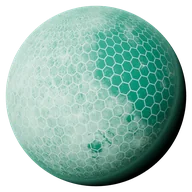
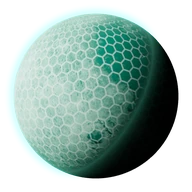
Every planet at the group site's quality
- the logo's three bodies are the companies' own worlds (Facilities, Global, Distribution), built as the system builds them
- the pink globe takes thefreedomgroup.global's colours, cloud and air
- a world's air keeps its depth when the world is drawn bigger or smaller
- the hex cells on Facilities fade out cleanly when small instead of fizzing
- the planet icons are re-rendered from the 3D worlds, lit from the side with their air
- the expansion globe's land takes real relief from the planets' height map

diff --git a/js/w-globe.js b/js/w-globe.js
@@ -4,10 +4,12 @@
    distance from Bury as the globe turns east to face them. At the end the glass clears, the rim is left as a ring, and
    the ring opens out and is gone, leaving the night sky the growth plan stands in.
    Everything here is a function of how far through the scene the scroll is, so it runs the same forwards and backwards.
-   It never uses the Earth's photograph, clouds or city lights: only the water map, as a clean cut-out.
+   It never uses the Earth's clouds or city lights: the water map cuts land from sea, and the land takes its relief and tone
+   from the height and day maps the planets use.
    Drawn over the night sky (w-orbit) once the sheet has gone; on its own while the sheet is up. */
 import * as THREE from 'three';
 import { mapTex } from './planets.js';
+import { GLSL_PERTURB } from './util.js';
 
 const DEG = Math.PI / 180;
 const clamp = (v, a = 0, b = 1) => Math.min(b, Math.max(a, v));
@@ -62,10 +64,10 @@ const PORCELAIN = [244 / 255, 241 / 255, 235 / 255], NIGHT = [5 / 255, 5 / 255, 
 const SHEET_VS = `void main(){ gl_Position = vec4(position.xy, 0.0, 1.0); }`;
 const SHEET_FS = `uniform vec3 col; uniform float a; void main(){ gl_FragColor = vec4(col * a, a); }`;
 
-const GLOBE_VS = `varying vec2 vUv; varying vec3 vN; varying vec3 vNv; varying vec3 vW;
-void main(){ vUv = uv; vec4 w = modelMatrix * vec4(position, 1.0); vW = w.xyz; vN = normalize(mat3(modelMatrix) * normal); vNv = normalize(normalMatrix * normal); gl_Position = projectionMatrix * viewMatrix * w; }`;
-const GLOBE_FS = `varying vec2 vUv; varying vec3 vN; varying vec3 vNv; varying vec3 vW;
-uniform sampler2D water; uniform float dusk; uniform float body;` + UNGRADE + `
+const GLOBE_VS = `varying vec2 vUv; varying vec3 vN; varying vec3 vNv; varying vec3 vW; varying vec3 vVp;
+void main(){ vUv = uv; vec4 w = modelMatrix * vec4(position, 1.0); vW = w.xyz; vN = normalize(mat3(modelMatrix) * normal); vNv = normalize(normalMatrix * normal); vec4 v = viewMatrix * w; vVp = v.xyz; gl_Position = projectionMatrix * v; }`;
+const GLOBE_FS = `varying vec2 vUv; varying vec3 vN; varying vec3 vNv; varying vec3 vW; varying vec3 vVp;
+uniform sampler2D water; uniform sampler2D dayMap; uniform sampler2D normalMap; uniform float dusk; uniform float body;` + UNGRADE + GLSL_PERTURB + `
 void main(){
   vec3 N = normalize(vN); vec3 Nv = normalize(vNv); vec3 V = normalize(cameraPosition - vW);
   float edge = 1.0 - clamp(dot(N, V), 0.0, 1.0);                       // 0 in the middle of the disc, 1 on the limb
@@ -78,7 +80,10 @@ void main(){
   vec3 sea = mix(vec3(0.647, 0.047, 0.353), vec3(1.0, 0.176, 0.553), lit);          // #A50C5A in the shade to the brand's #FF2D8D in the light
   sea = mix(sea, vec3(1.0, 0.31, 0.635), pow(lit, 6.0) * 0.35);                      // a little lighter where the light lands
   sea = mix(sea, vec3(0.5, 0.02, 0.26), shade * 0.42);
-  vec3 ground = mix(vec3(0.9, 0.77, 0.845), vec3(1.0, 0.988, 0.972), lit);
+  /* the land has its real relief: the planets' height map turned into light and shade, and the ground's own tone */
+  vec3 Lg = normalize(vec3(-0.42, 0.46, 0.78)); vec3 Np = perturbN(Nv, texture2D(normalMap, vUv).xyz * 2.0 - 1.0, vVp, vUv, 1.1);
+  float relief = clamp(dot(Np, Lg) - dot(Nv, Lg), -0.45, 0.45), tone = dot(texture2D(dayMap, vUv).rgb, vec3(0.299, 0.587, 0.114));
+  vec3 ground = mix(vec3(0.9, 0.77, 0.845), vec3(1.0, 0.988, 0.972), lit) * (0.9 + 0.2 * tone) * (1.0 + relief * 0.95);
   vec3 day = mix(sea, ground, land) * (1.0 - 0.3 * pow(edge, 2.4));                  // deeper toward the limb
   day += vec3(1.0, 0.82, 0.9) * pow(edge, 6.0) * 0.1;                                // a thin haze of air inside the limb
   // the soft window of light, upper left, that the logo's globe carries
@@ -137,7 +142,7 @@ export function createGlobe({ renderer, small, grade }) {
 
   /* the globe: tipped, then turned about its own axis */
   const tip = new THREE.Group(), spin = new THREE.Group(); tip.rotation.x = TILT; tip.add(spin); scene.add(tip);
-  const globeU = { water: { value: mapTex('earth-spec', { colour: false }) }, dusk: { value: 0 }, body: { value: 1 } };
+  const globeU = { water: { value: mapTex('earth-spec', { colour: false }) }, dayMap: { value: mapTex('earth-day') }, normalMap: { value: mapTex('earth-normal', { colour: false }) }, dusk: { value: 0 }, body: { value: 1 } };
   const ball = new THREE.Mesh(new THREE.SphereGeometry(1, small ? 96 : 144, small ? 48 : 72), new THREE.ShaderMaterial({ uniforms: globeU, vertexShader: GLOBE_VS, fragmentShader: GLOBE_FS, transparent: true }));
   spin.add(ball);
 

diff --git a/js/w-orbit.js b/js/w-orbit.js
@@ -27,7 +27,7 @@ const DIVE_LEAD = 0.675, DIVE_SPAN = 1.404;
    stroke thickens, the green body at 355.8 degrees, the blue at 155.2, the ember at 284.3 (radii 0.0519, 0.0414, 0.0247).
    The orbit lies flat in the plane of the first screen, so head on it is the logo's ellipse exactly. */
 const MK = { cx: 0.4652, cy: 0.5042, a: 0.5456, b: 0.2496, lean: 54.42 * DEG, gx: 0.7573, gy: 0.5073 }, KY = MK.b / MK.a;
-const BODIES = [{ at: 355.8, r: 0.0519, c: 0x16c98d, e: 0x063d2a }, { at: 155.2, r: 0.0414, c: 0x1c9bff, e: 0x06305c }, { at: 284.3, r: 0.0247, c: 0xff4a1e, e: 0x5a1205 }];
+const BODIES = [{ at: 355.8, r: 0.0519, world: 'facilities' }, { at: 155.2, r: 0.0414, world: 'global' }, { at: 284.3, r: 0.0247, world: 'distribution' }];
 /* the stroke round the orbit, read off the artwork: [degrees, width in wordmark widths, how solid, colour]. It runs thick
    and deep from the green body past the globe to the blue, thin and pale from there, and breaks where it would cross the letters. */
 const STROKE = [[0, 0.026, 1, '#ff3ecc'], [12, 0.0262, 1, '#fe3ecc'], [30, 0.029, 1, '#f52eb7'], [42, 0.0306, 1, '#e5199b'], [54, 0.0328, 1, '#d2047d'], [66, 0.0336, 1, '#cc0074'], [84, 0.0336, 1, '#cc0074'], [96, 0.0322, 1, '#d30680'],
@@ -80,7 +80,9 @@ export function createOrbit({ renderer, small, dpr, spec }) {
   const well = new THREE.Mesh(new THREE.CircleGeometry(1, 96), wellMat); well.scale.set(1, KY, 1); well.renderOrder = 1; rig.add(well); ring.renderOrder = 2;
   /* and round Enterprise once it is a planet: a soft pink glow, behind it */
   const glow = new THREE.Sprite(new THREE.SpriteMaterial({ map: softDisc(128, [[0, 'rgba(255,61,154,.6)'], [0.42, 'rgba(255,61,154,.2)'], [1, 'rgba(255,61,154,0)']]), blending: THREE.AdditiveBlending, depthWrite: false, transparent: true, opacity: 0 })); glow.visible = false; scene.add(glow);
-  const bodies = BODIES.map(b => { const m = new THREE.Mesh(new THREE.SphereGeometry(b.r / MK.a, 48, 32), new THREE.MeshStandardMaterial({ color: b.c, roughness: 0.3, metalness: 0.05, emissive: b.e, emissiveIntensity: 1.2 })); m.userData = b; rig.add(m); return m; });
+  /* the logo's three bodies are the three companies' own worlds, built as the system builds them (green Facilities, blue
+     Global, the small ember one Distribution), each drawn at the logo's size for it */
+  const bodies = BODIES.map(b => { const w = makeWorld(WORLDS[b.world], sunPos, { seg: small ? 48 : 96 }); w.group.userData = Object.assign({ k: b.r / MK.a / w.R }, b); rig.add(w.group); w.group.w = w; return w.group; });
 
   /* ───────── poses ───────── */
   const cur = { target: V(), dir: V(0, 0.42, 1).normalize(), dist: 700, ox: 0, oy: 0 }, want = { target: V(), dir: V(), dist: 700, ox: 0, oy: 0 };
@@ -174,7 +176,7 @@ export function createOrbit({ renderer, small, dpr, spec }) {
       ringMat.uniforms.k.value = rigK; ringMat.uniforms.charge.value = Math.min(1.6, bh * bh + rc * 0.7); wellMat.uniforms.k.value = Math.min(1, bh * 1.5) * rigK; well.visible = bh > 0.004; ring.geometry.setDrawRange(0, Math.floor(RING_N * clamp(intro) / 3) * 3);
       /* the three bodies leave the ring one after another and wind in to the middle, faster as they go */
       bodies.forEach((b, i) => { const u = b.userData, pb = clamp((bh - 0.06 - i * 0.07) / 0.62), f2 = pb * pb, th = (u.at + Math.sin(time * (0.21 + i * 0.07) + i * 2.1) * 1.3 - bh * (60 + i * 30) - f2 * 220) * DEG, rr = 1 - f2;
-        b.position.set(Math.cos(th) * rr, -Math.sin(th) * KY * rr, 0); const kk = clamp(introBodies * 3 - i) * rigK * (1 - f2); b.scale.setScalar(Math.max(0.0001, ease(kk)) / Math.max(0.05, ringS)); b.rotation.y += dt * 0.4; });
+        b.position.set(Math.cos(th) * rr, -Math.sin(th) * KY * rr, 0); const kk = clamp(introBodies * 3 - i) * rigK * (1 - f2); b.scale.setScalar(u.k * Math.max(0.0001, ease(kk)) / Math.max(0.05, ringS)); b.visible = kk > 0.002; b.w.update(dt, time); });
       rig.updateMatrixWorld();
     }
     /* the warp is the ring: inside it the light is dragged round and down into a dark mouth; the ring itself and the sky

diff --git a/js/planets.js b/js/planets.js
@@ -49,9 +49,9 @@ void main(){
   float water = texture2D(specMap, vUv).r;
   if (pink > 0.5) {
     float lum = dot(albedo, vec3(0.299, 0.587, 0.114));
-    /* the logo's globe: a hot magenta sea (the artwork's is #E722A2) under white land */
-    vec3 sea = mix(vec3(0.52, 0.004, 0.215), vec3(0.37, 0.0, 0.14), smoothstep(0.0, 0.35, lum) * 0.7);
-    vec3 land = vec3(1.0, 0.985, 0.97) * (0.86 + 0.3 * lum);
+    /* the group's globe as thefreedomgroup.global paints it: a pink sea under pale land */
+    vec3 sea = mix(vec3(0.98, 0.22, 0.58), vec3(0.62, 0.04, 0.34), smoothstep(0.0, 0.35, lum) * 0.8);
+    vec3 land = vec3(0.97, 0.95, 0.92) * (0.72 + 0.4 * lum);
     albedo = mix(land, sea, smoothstep(0.3, 0.7, water)); city *= vec3(1.0, 0.75, 0.9) * 0.6;
   }
   float cl = texture2D(cloudMap, vec2(vUv.x + cloudOffset - 0.0015, vUv.y + 0.001)).r;
@@ -60,10 +60,10 @@ void main(){
   float diffuse = max(mix(nlg, nl, 1.0 - water * 0.8), 0.0);
   vec3 col = albedo * (vec3(0.010, 0.016, 0.030) + diffuse * 1.5) * shadow;
   vec3 H = normalize(L + V); float glint = pow(max(dot(Ng, H), 0.0), 110.0) * water * max(nlg, 0.0) * 0.8;
-  col += vec3(1.0, 0.85, 0.65) * glint * (pink > 0.5 ? 0.22 : 1.0);
+  col += vec3(1.0, 0.85, 0.65) * glint;
   col += city * vec3(1.0, 0.72, 0.40) * 2.4 * (1.0 - smoothstep(-0.2, 0.12, nlg));
   float rim = pow(1.0 - max(dot(Ng, V), 0.0), 3.4);
-  vec3 rimC = pink > 0.5 ? vec3(0.62, 0.05, 0.3) : vec3(0.06, 0.31, 0.65);
+  vec3 rimC = pink > 0.5 ? vec3(0.9, 0.2, 0.5) : vec3(0.06, 0.31, 0.65);
   col += rimC * rim * smoothstep(-0.45, 0.2, nlg) * 0.8;
   float sunset = exp(-abs(nlg) * 22.0) * rim; col += vec3(0.6, 0.3, 0.12) * sunset * 0.18;
   gl_FragColor = vec4(look(col), 1.0);` + OUT;
@@ -129,7 +129,7 @@ void main(){
   #ifndef LOW
   alb *= 1.0 + detail * (fbm(p * 60.0) - 0.5) * 0.3;
   #endif
-  if (hex > 0.5) { float e = hexEdge(vec2(vUv.x * 48.0, vUv.y * 24.0)); float line = smoothstep(0.07, 0.0, e) * (1.0 - pow(abs(vUv.y - 0.5) * 2.0, 5.0)); alb = mix(alb, vec3(0.75, 1.0, 0.88), line * 0.55); }
+  if (hex > 0.5) { float e = hexEdge(vec2(vUv.x * 48.0, vUv.y * 24.0)); float fw = fwidth(e); float line = smoothstep(0.07 + fw, 0.0, e) * (1.0 - smoothstep(0.05, 0.16, fw)) * (1.0 - pow(abs(vUv.y - 0.5) * 2.0, 5.0));   /* the cells fade out as they get too small to draw cleanly, instead of fizzing */ alb = mix(alb, vec3(0.75, 1.0, 0.88), line * 0.55); }
   float nl = dot(N, L); float nlg = dot(Ng, L);
   float diff = max(nl, 0.0) * smoothstep(-0.05, 0.12, nlg);
   float mu = max(dot(Ng, V), 0.0);
@@ -163,7 +163,8 @@ function skyShell(R, a, sunPos, seg, look) {
   const m = shaderMat(SKY_FS, { sunPos: { value: sunPos }, time: { value: 0 }, sat: look.sat, gain: look.gain, cDay: u3(a.day), cDusk: u3(a.dusk), strength: { value: a.strength }, centre: { value: new THREE.Vector3() }, R: { value: R * 0.995 }, Ra: { value: Ra }, falloff: { value: 5.5 } },
     { transparent: true, depthWrite: false, blending: THREE.AdditiveBlending, side: THREE.BackSide });
   const mesh = new THREE.Mesh(sphere(Ra, seg), m); mesh.renderOrder = 2;
-  mesh.onBeforeRender = () => { mesh.getWorldPosition(m.uniforms.centre.value); };
+  /* the air is worked out in world units, so a world drawn bigger or smaller than its own size keeps its air the right depth */
+  const ws = new THREE.Vector3(); mesh.onBeforeRender = () => { mesh.getWorldPosition(m.uniforms.centre.value); mesh.getWorldScale(ws); const k = (ws.x + ws.y + ws.z) / 3; m.uniforms.R.value = R * 0.995 * k; m.uniforms.Ra.value = Ra * k; };
   return mesh;
 }
 function ringGeometry(inner, outer, segs = 256) {

diff --git a/js/worlds.js b/js/worlds.js
@@ -12,8 +12,8 @@ export const RINGS = [155, 230, 372];
 const onRing = (ring, deg) => { const a = deg * Math.PI / 180, r = RINGS[ring]; return [+(Math.cos(a) * r).toFixed(2), 0, +(Math.sin(a) * r).toFixed(2)]; };
 
 export const WORLDS = {
-  enterprise: { kind: 'pinkEarth', R: 20, pos: [0, 0, 0], spin: 0.02, tilt: 0.3, orbitK: 3.0, cloudK: 0.1,   // little cloud: the logo's globe is sea and land
-    atmo: { day: [1.0, 0.3, 0.62], dusk: [1.0, 0.55, 0.78], power: 4.4, strength: 0.46, shell: 1.03 }, glow: '#ff5fae', cloud: [1.0, 0.86, 0.93], name: 'Freedom Group Enterprise' },
+  enterprise: { kind: 'pinkEarth', R: 20, pos: [0, 0, 0], spin: 0.02, tilt: 0.3, orbitK: 3.0,   // as the group site has it: full cloud and air
+    atmo: { day: [1.0, 0.35, 0.65], dusk: [1.0, 0.62, 0.8], power: 4.4, strength: 0.6, shell: 1.03 }, glow: '#ff5fae', cloud: [1.0, 0.86, 0.93], name: 'Freedom Group Enterprise' },
   global: { kind: 'gas', R: 14, pos: onRing(0, 87.8), map: 'neptune', ramp: [[0.12, 0.38, 0.92], [0.88, 0.96, 1.0]], bands: 1.4, storm: 0, flow: 0.004, limbDark: 0.45, detail: 0.5, expo: 1.35, spin: 0.03, tilt: 0.25, orbitK: 2.8,
     atmo: { day: [0.45, 0.72, 1.0], dusk: [0.4, 0.5, 0.95], power: 4.2, strength: 0.6, shell: 1.03, inner: 0.5 }, glow: '#6fb6ff', cloud: [0.7, 0.84, 1.0], name: 'Freedom Global' },
   facilities: { kind: 'rock', R: 11, pos: onRing(1, -115.0), map: 'moon', normal: 'moon-normal', normalScale: 0.7, ramp: [[0.02, 0.26, 0.18], [0.6, 1.0, 0.8]], hex: 1, detail: 0.3, spin: 0.02, tilt: 0.2, orbitK: 2.8,
